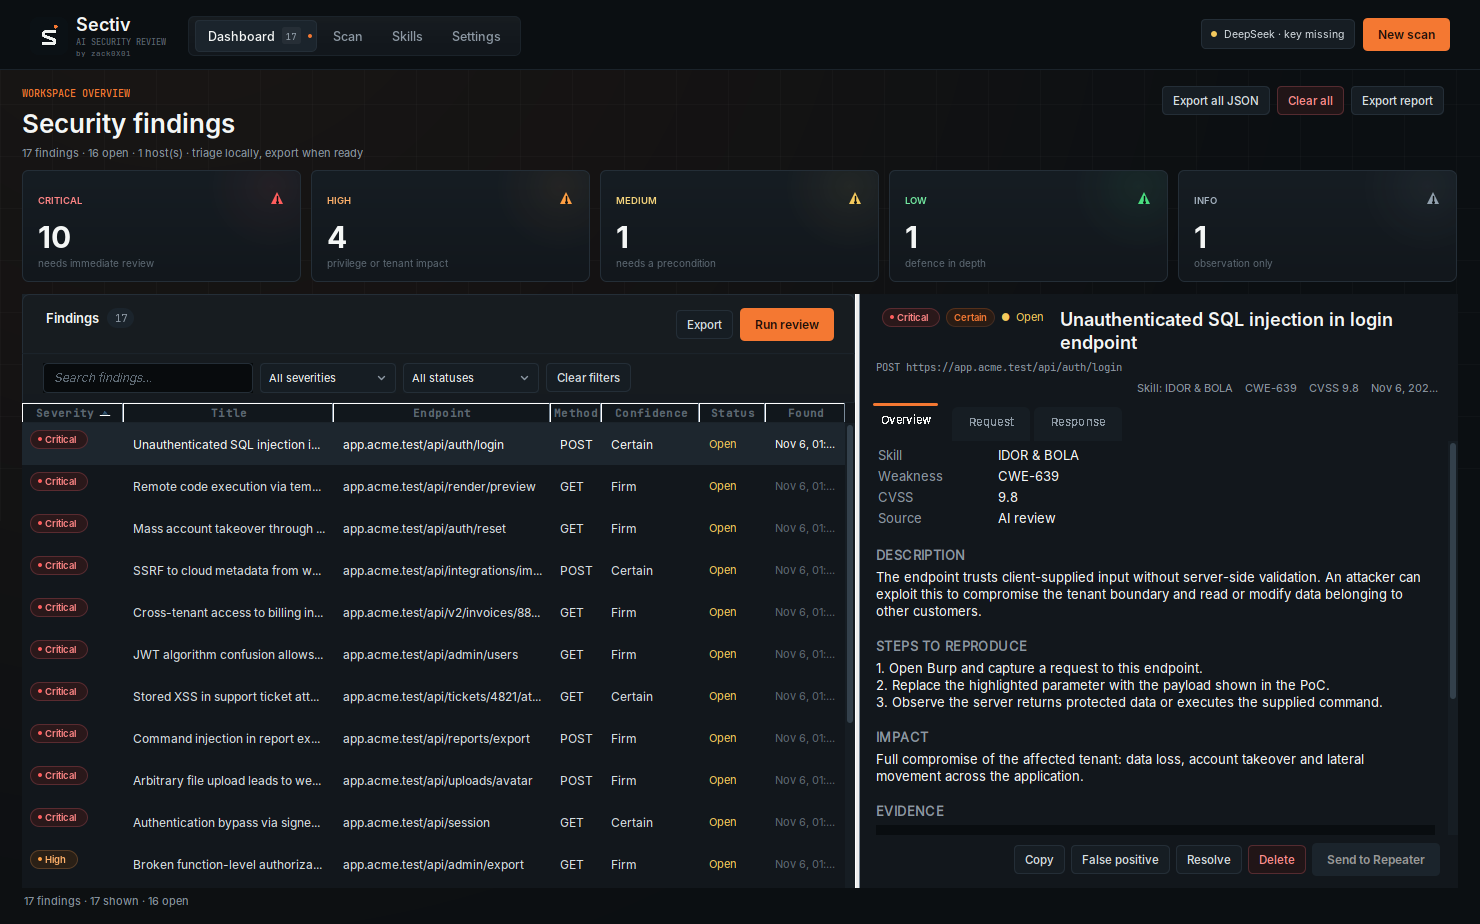
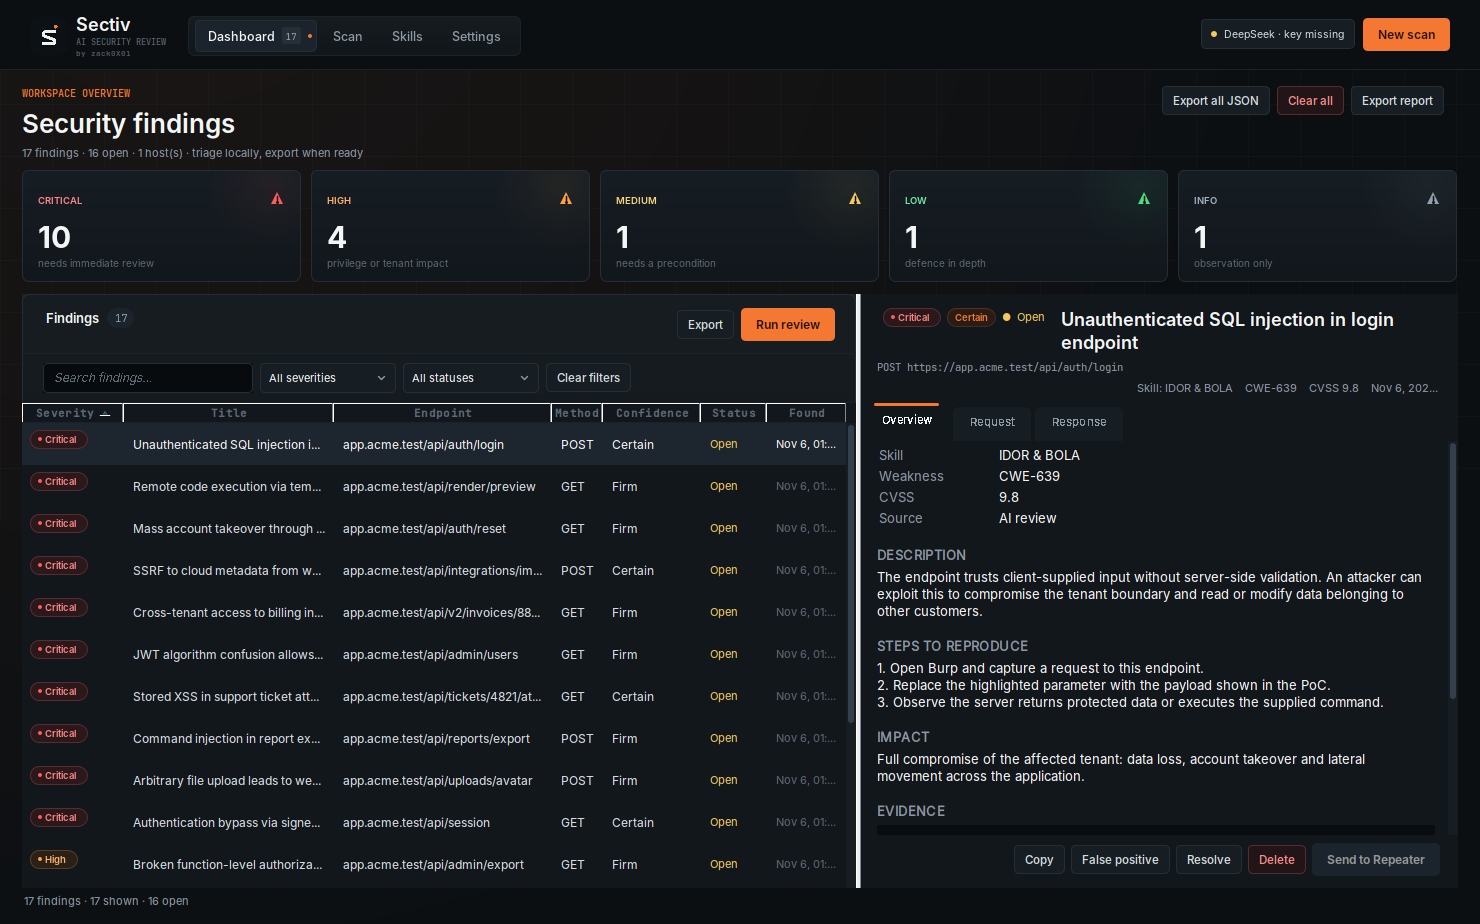
Add files via upload

diff --git a/README.md b/README.md
@@ -30,144 +30,50 @@
   <img src="design/dashboard-demo.png" alt="Sectiv dashboard" width="920">
 </p>
 
-## Install (users)
+## Install
 
-No JDK, no build — just load the JAR:
-
-1. Download **`release/sectiv-1.0.0.jar`** (or get it from the GitHub Releases page).
-2. Open Burp Suite → **Extensions → Installed**.
-3. Click **Add** → extension type **Java** → select the JAR.
-4. A **Sectiv** tab appears. Open **Settings**, paste your AI provider API key, and you're ready to scan.
-
-> The JAR is compiled against the Montoya API `2026.7` and Java 21. Use a current Burp release; older releases may reject it.
-
-## Troubleshooting
-
-**"Request to DeepSeek timed out" (or any provider) but curl works**
-
-- The extension now honours the standard `http_proxy` / `https_proxy` environment variables. If your traffic must go through a proxy, export them before starting Burp:
-  ```bash
-  export https_proxy=http://127.0.0.1:8080
-  ```
-- If you use a VPN, make sure the AI provider is reachable through it.
-- Try lowering **Prompt chunk size** and raising **Timeout (s)** in Settings.
-- Double-check the base URL — DeepSeek should be `https://api.deepseek.com/v1/chat/completions`.
-
-**"Failed · ..." on Test connection**
-
-Read the exact reason after `Failed ·`:
-
-- `401 / 403` → API key is wrong or missing.
-- `404` → base URL or model name is wrong.
-- `400` → model name or advanced request options are wrong.
-- `timed out` → network/proxy issue (see above).
-
-Make sure the provider kind matches the API: DeepSeek/OpenAI/GLM/etc. use OpenAI-compatible chat completions; Claude uses the Anthropic Messages API.
+1. Download **`release/sectiv-1.0.0.jar`**.
+2. Burp Suite → **Extensions → Installed → Add** → type **Java** → select the JAR.
+3. A **Sectiv** tab appears. Open **Settings**, paste your AI provider API key. Done.
 
 ## Features
 
-- **Severity dashboard** — Critical, High, Medium, Low and Info counters, filterable tables, search, status triage (Open / Triaged / False positive / Resolved) and HTML / Markdown / JSON export.
-- **Scope picker** — load proxy history or site map, filter by host/path/method, restrict to Burp scope, collapse duplicate endpoints, remove static assets, and tick the requests to review.
-- **Skills** — built-in review goals for BOLA/IDOR, function-level authorization, authentication/session issues, SQLi, XSS, SSRF, sensitive data exposure, business logic, mass assignment and file handling. Create, edit, duplicate, import and export your own Markdown skills.
-- **Goal-based scanning** — run one skill or a full sweep of all enabled skills. Traffic is packed into token-budgeted chunks, with progress, cancellation and a live run log.
-- **Structured findings** — every finding includes description, steps to reproduce, impact, a ready-to-use PoC (HTML page, Python script or curl command), CWE/CVE references and CVSS.
-- **Identity context** — paste emails, cookies and authorization headers for User A and User B. The model uses this for BAC/IDOR reasoning, and Sectiv can optionally perform a deterministic **identity-swap check**: replay selected requests with User B's credentials and compare responses with User A's.
-- **Multiple providers** — DeepSeek, Claude (Anthropic), OpenAI, GLM (Zhipu), z.ai, OpenRouter, local Ollama and any custom OpenAI-compatible endpoint.
-- **Privacy controls** — cookie values, authorization headers, passwords, API keys and JWTs are masked before traffic is sent to the model. Email addresses are deliberately kept because they are a primary BOLA/IDOR signal. Masking can be disabled in Settings.
-- **Safe defaults** — active identity-swap checks are off by default, require explicit confirmation, only use GET/HEAD/OPTIONS unless enabled otherwise, and are rate-limited.
+- **Severity dashboard** — Critical / High / Medium / Low / Info, search, filters, triage status and HTML / Markdown / JSON export.
+- **Scope picker** — load proxy history or site map, filter, collapse duplicates, remove static assets, tick the requests to review.
+- **Skills** — built-in demo skills (IDOR, XSS, SQLi, SSRF, auth…) plus create, edit, import and export your own.
+- **Structured findings** — description, steps to reproduce, impact, PoC (HTML / Python / curl), CWE/CVE and CVSS.
+- **Identity context** — two accounts for BAC/IDOR reasoning, plus an optional deterministic identity-swap check.
+- **Multiple providers** — DeepSeek, OpenAI, Claude, GLM, z.ai, OpenRouter, Ollama and any OpenAI-compatible endpoint.
+- **Privacy controls** — cookies, tokens, keys and JWTs are masked before traffic is sent to the model.
+
+## Use
+
+1. **Settings** — pick a provider, set base URL + model, paste the API key, **Test connection**, save.
+2. **Scan → Target scope** — load history or site map and tick the requests to review.
+3. **Scan → Review goal** — pick a skill (or run all enabled).
+4. **Scan → Identity context** — optionally paste two accounts for BAC/IDOR checks.
+5. **Run scan** — findings appear live in the dashboard; export when done.
 
 ## Skills
 
-The built-in skills are **demo examples** — they show the format and cover common bug classes, but you should still add your own skills tailored to your target application.
+The built-in skills are **demo examples** — add your own skills tailored to your target.
 
-**For best results**, end every skill body with a validation instruction, for example:
+**Tip:** end every skill body with a validation instruction, for example:
 
 > Before reporting a finding, confirm it against the captured evidence and explain what would validate it. If you cannot confirm it, mark it tentative or leave it out.
 
 That one line eliminates most false positives.
 
-## Use
-
-1. **Settings → AI provider** — choose a provider, set the base URL/model, paste an API key, and use **Test connection**. Save.
-2. **Scan → Target scope** — load proxy history or the site map, filter and tick the requests to review. **In scope** selects only items inside Burp's target scope.
-3. **Scan → Review goal** — choose one skill, or enable **Run all enabled skills**.
-4. **Scan → Identity context** — optionally paste two accounts. The template inserts a parseable layout:
-   ```
-   User A
-     email: alice@example.com
-     Cookie: session=...
-     Authorization: Bearer ...
-
-   User B
-     email: bob@example.com
-     Cookie: session=...
-     Authorization: Bearer ...
-   ```
-   One-line notes such as `User A cookie is: session=...` are also parsed.
-5. Click **Run scan**. Findings appear immediately in the dashboard as chunks complete.
-6. Optionally enable **Verify with identity swap**. Sectiv replays the selected success responses with User B's credentials and flags responses that still return User A's data. You are asked to confirm the request count first.
-7. Triage in **Dashboard**, then export an HTML, Markdown or JSON report.
-
-## How the AI review works
-
-The model does not issue requests by itself. Sectiv builds a prompt from:
-
-- the selected skill's review instructions,
-- the tester's identity context,
-- redacted captured HTTP request/response pairs, packed into chunks that fit the configured character budget.
-
-The system prompt requires a single JSON object, forbids inventing endpoints and treats captured traffic as untrusted data (prompt-injection defence). Sectiv parses the response defensively, deduplicates findings by fingerprint, and retries once with a stricter prompt if the model returns malformed JSON.
-
-The identity-swap check is separate and deterministic: Sectiv replaces the matching session cookie or authorization header with User B's value, sends the request through Burp, and compares status, length and response similarity. Findings are marked `active check` in the dashboard and include the exact request that was sent.
-
-## Data and privacy
-
-- State is stored at `~/.sectiv/state.json` and written atomically with `0600` permissions where the filesystem supports them.
-- The file contains settings, API keys, skills, the last identity context and all findings (including capped raw request/response excerpts). **It is not encrypted.** Use a dedicated API key and rotate it if the host is shared.
-- The state file is global to the Burp installation, not per project. Use export before switching engagements, and clear findings when appropriate.
-- Captured traffic is sent to the configured AI provider. Confirm that this is allowed for your engagement before scanning. Use **Settings → Scan behavior → Mask cookies and tokens** (on by default) and review the selected scope.
-- Identity-swap checks send real traffic with the second account's credentials. Only run them against systems you are authorized to test.
-
-## Project layout
-
-```
-src/main/kotlin/io/sectiv/burp/
-  SectivExtension.kt        Burp entry point
-  core/                     models, state, identity parsing, redaction, transcript
-  ai/                       prompt building, finding parser, provider HTTP client
-  scan/                     history collection, scan orchestration, identity swap
-  ui/                       custom Swing dashboard, scan, skills and settings tabs
-  report/                   HTML, Markdown and JSON reports
-src/test/kotlin/            unit, scan-pipeline and headless UI tests
-```
-
 ## Build from source (developers)
 
-Only needed if you want to compile the extension yourself. Requirements: JDK 21 and network access for the first Gradle run.
+Requires JDK 21.
 
 ```bash
 ./gradlew test          # unit + headless UI tests
-./gradlew shadowJar     # build the loadable extension
+./gradlew shadowJar     # builds build/libs/sectiv-1.0.0.jar
 ```
-
-The extension JAR is written to:
-
-```
-build/libs/sectiv-1.0.0.jar
-```
-
-The JAR bundles the Kotlin runtime and a relocated copy of Jackson. The Montoya API is compiled against but not bundled; Burp provides it at runtime.
 
 ## Limitations
 
-- This is an **AI-assisted review**, not a replacement for Burp Scanner or manual testing. Validate every finding before reporting it.
+- This is an AI-assisted review — validate every finding before reporting it.
 - The AI only reasons about the traffic you select; it cannot discover endpoints that are absent from that traffic.
-- Active identity-swap checking is a heuristic. A high-similarity response can still be a public or shared resource; the finding text tells you to confirm ownership.
-- Model names and endpoints change. If **Test connection** fails, update the model identifier in Settings.
-- AI calls can be slow or expensive. Use a focused scope and one skill at a time for large engagements.
-
-## Development notes
-
-- `./gradlew test` runs 40+ tests including redaction, identity parsing, prompt chunking, report escaping, persistence, the full scan pipeline with a fake model, and a headless Swing smoke test.
-- The UI uses no third-party look-and-feel. Colors adapt to Burp's dark/light theme via `UserInterface.currentTheme()`.
-- To add a provider preset, edit `defaultProviders()` in `core/Models.kt`. To add a built-in skill, edit `core/DefaultSkills.kt`.
